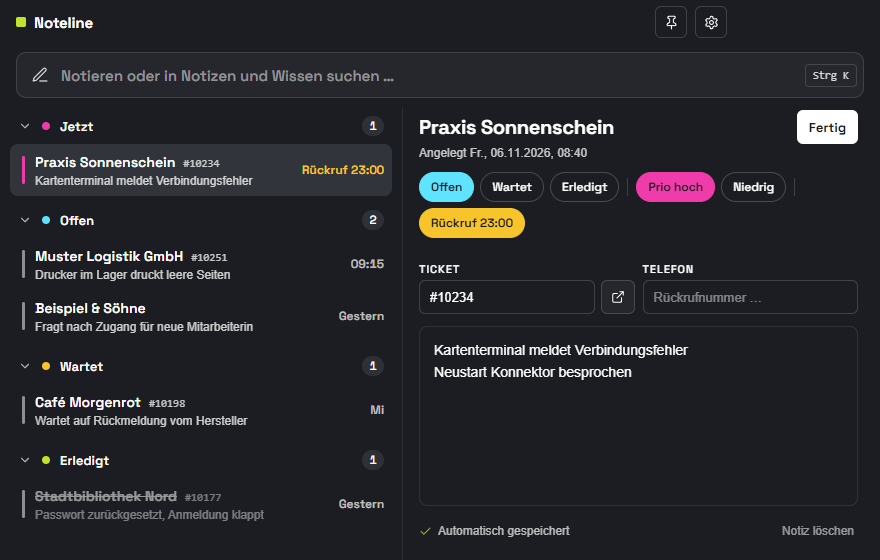
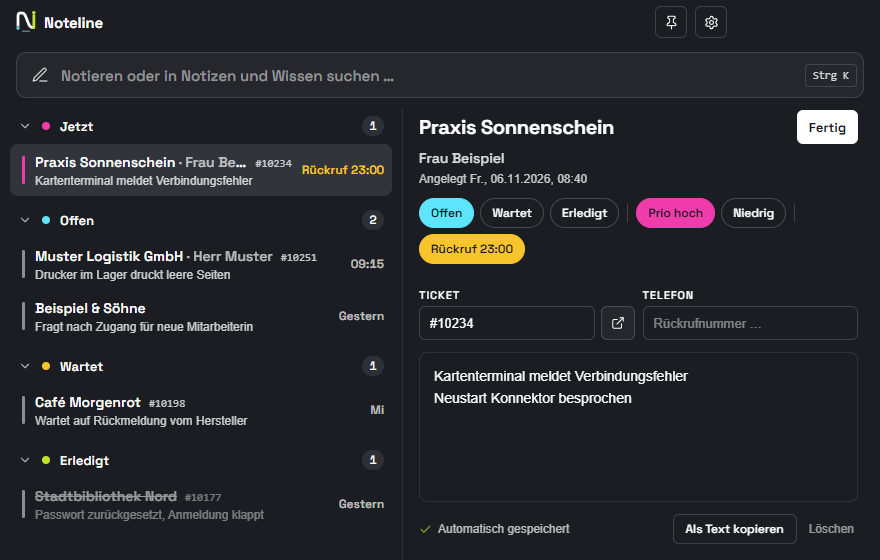
docs: README, Screenshots und Changelog für 1.2.0

diff --git a/scripts/screenshot.js b/scripts/screenshot.js
@@ -11,28 +11,31 @@ const electron = require('electron');
 const h = (stunden, minuten = 0) => { const d = new Date(); d.setHours(stunden, minuten, 0, 0); return d.toISOString(); };
 const tag = (delta, stunden) => { const d = new Date(); d.setDate(d.getDate() + delta); d.setHours(stunden, 0, 0, 0); return d.toISOString(); };
 const n = (id, kunde, ticket, text, extra = {}) => ({
-  id, kunde, ticket, telefon: '', text, status: 'offen', prio: 'normal', rueckruf: null, erinnertFuer: null,
+  id, kunde, ansprechpartner: '', ticket, telefon: '', text, status: 'offen', prio: 'normal', rueckruf: null, erinnertFuer: null,
   erstellt: extra.erstellt || h(9), geaendert: extra.geaendert || extra.erstellt || h(9), ...extra,
 });
 
 const demo = {
   version: 2,
   notizen: [
-    n('d1', 'Praxis Sonnenschein', '#10234', 'Kartenterminal meldet Verbindungsfehler\nNeustart Konnektor besprochen', { prio: 'hoch', erstellt: h(8, 40), rueckruf: h(23, 0), erinnertFuer: h(23, 0) }),
-    n('d2', 'Muster Logistik GmbH', '#10251', 'Drucker im Lager druckt leere Seiten\nTreiber neu installiert, Testseite ok\nKunde meldet sich, falls es wieder auftritt', { erstellt: h(9, 15), telefon: '+49 123 4567890' }),
+    n('d1', 'Praxis Sonnenschein', '#10234', 'Kartenterminal meldet Verbindungsfehler\nNeustart Konnektor besprochen', { ansprechpartner: 'Frau Beispiel', prio: 'hoch', erstellt: h(8, 40), rueckruf: h(23, 0), erinnertFuer: h(23, 0) }),
+    n('d2', 'Muster Logistik GmbH', '#10251', 'Drucker im Lager druckt leere Seiten\nTreiber neu installiert, Testseite ok\nKunde meldet sich, falls es wieder auftritt', { erstellt: h(9, 15), telefon: '+49 123 4567890', ansprechpartner: 'Herr Muster' }),
     n('d3', 'Beispiel & Söhne', '', 'Fragt nach Zugang für neue Mitarbeiterin', { erstellt: tag(-1, 14) }),
     n('d4', 'Café Morgenrot', '#10198', 'Wartet auf Rückmeldung vom Hersteller', { status: 'wartet', erstellt: tag(-2, 11) }),
     n('d5', 'Stadtbibliothek Nord', '#10177', 'Passwort zurückgesetzt, Anmeldung klappt', { status: 'erledigt', erstellt: tag(-1, 10) }),
   ],
   wissen: [
-    { id: 'w1', gruppe: 'Befehle', titel: 'Erreichbarkeit prüfen', wert: 'ping <IP> -n 4' },
-    { id: 'w2', gruppe: 'Ports', titel: 'Fernwartung', wert: '5938' },
-    { id: 'w3', gruppe: 'Ports', titel: 'Webserver intern', wert: '8443' },
-    { id: 'w4', gruppe: 'Netz', titel: 'Testserver', wert: '192.0.2.10' },
-    { id: 'w5', gruppe: 'Netz', titel: 'DNS', wert: '198.51.100.53' },
-    { id: 'w6', gruppe: 'Links', titel: 'Herstellerportal', wert: 'https://example.org/support' },
+    { id: 'w1', titel: 'Support-Hotline', wert: '0800 1234567', favorit: true },
+    { id: 'w2', titel: 'Support-E-Mail', wert: 'support@example.org', favorit: true },
+    { id: 'w3', titel: 'Software-Download', wert: 'https://example.org/download' },
+    { id: 'w4', titel: 'Firmware Kartenterminal', wert: 'https://example.org/firmware' },
+    { id: 'w5', titel: 'Fachdienst A', wert: '192.0.2.10' },
+    { id: 'w6', titel: 'Fachdienst B', wert: '198.51.100.20' },
+    { id: 'w7', titel: 'Fernwartung', wert: '5938' },
+    { id: 'w8', titel: 'Webserver intern', wert: '8443' },
+    { id: 'w9', titel: 'Route Fachdienst', wert: 'route add <IP> mask 255.255.255.255 <GATEWAY>' },
   ],
-  ui: { closed: { erledigt: false }, platzhalter: { w1: { IP: '192.0.2.10' } } },
+  ui: { closed: { erledigt: false }, platzhalter: { w9: { IP: '192.0.2.10', GATEWAY: '192.0.2.1' } } },
 };
 
 const ziel = path.join(__dirname, '..', 'docs');

diff --git a/README.md b/README.md
@@ -1,6 +1,6 @@
 <div align="center">
 
-<img src="build/icon.png" width="88" alt="">
+<img src="brand/noteline-app-icon.svg" width="96" alt="">
 
 # Noteline
 
@@ -42,18 +42,27 @@ Was sich geändert hat, steht im [Changelog](CHANGELOG.md) und bei jedem [Releas
 ## Funktionen
 
 ### Hotline
-- **Sofort mitschreiben:** Tippen und Enter drücken. `Kunde: Stichpunkt` füllt den Kunden gleich mit aus,
+- **Sofort mitschreiben:** Tippen und Enter drücken. `Kunde / Ansprechpartner: Stichpunkt` füllt beide Felder gleich mit aus,
   Telefonnummern und `#Ticketnummern` landen automatisch in ihren Feldern.
 - **Ticket mit einem Klick öffnen:** Einmal die Ticket-Adresse eures Systems hinterlegen, dann wird jede
   Ticketnummer zum Link.
 - **Spuren statt Textwüste:** *Jetzt*, *Offen*, *Wartet*, *Erledigt*, mit Priorität und Ticketnummer.
-- **Rückruf-Erinnerung:** Windows-Benachrichtigung zum fälligen Zeitpunkt, die stehen bleibt, bis du sie
+- **Ansprechpartner** je Notiz: mit wem telefoniert wurde bzw. wer beim Kunden zuständig ist.
+- **Als Text kopieren:** Die ganze Notiz mit einem Klick fertig zum Einfügen ins Ticketsystem.
+- **Löschen mit Rückgängig:** kein Nachfragen, dafür 6 Sekunden zum Zurückholen.
+- **Rückruf-Erinnerung:** Datum steht schon auf heute, nur die Uhrzeit eintragen. Zum Zeitpunkt kommt eine
+  Windows-Benachrichtigung, die stehen bleibt, bis du sie
   wegklickst. Ein Klick öffnet die Notiz.
 - **Suche** über Kunde, Ticket, Telefon und Text.
 
 ### Wissen
-- Ports, IPs, Links und Befehle nach Gruppen. **Ein Klick kopiert** den Wert.
-- **Vorlagen:** Ein Wert wie `ping <IP> -n 4` bekommt ein Eingabefeld und liefert den fertigen Befehl.
+- **Eine Zeile reicht:** `Support-Hotline 0800 1234567` oder `Download https://…` eintippen, Enter. Noteline erkennt
+  Telefonnummer, E-Mail, Link, IP-Adresse, Port oder Befehl und sortiert den Eintrag selbst ein, ohne Gruppen.
+- **Ein Klick kopiert** den Wert. Links lassen sich öffnen, E-Mail-Adressen direkt anschreiben.
+- **Favoriten** mit dem Stern stehen ganz oben und sind mit **Alt+1 bis Alt+9** ohne Suchen kopierbar.
+- **Strg+Enter** in der Suche kopiert den besten Treffer.
+- **Vorlagen:** Ein Wert wie `route add <IP> mask 255.255.255.255 <GATEWAY>` bekommt Eingabefelder und liefert
+  den fertigen Befehl.
 
 ### Bedienung
 - **Passt sich dem Fenster an:** schmal und hoch mit Reitern, breit und niedrig mit zwei Spalten
@@ -75,6 +84,8 @@ Was sich geändert hat, steht im [Changelog](CHANGELOG.md) und bei jedem [Releas
 |---|---|
 | <kbd>Strg</kbd>+<kbd>K</kbd> | Suchen / notieren |
 | <kbd>Strg</kbd>+<kbd>N</kbd> | Neue Notiz |
+| <kbd>Strg</kbd>+<kbd>Enter</kbd> | Besten Wissens-Treffer der Suche kopieren |
+| <kbd>Alt</kbd>+<kbd>1</kbd> … <kbd>9</kbd> | Favoriten kopieren |
 | <kbd>Strg</kbd>+<kbd>1</kbd> / <kbd>2</kbd> | Hotline / Wissen |
 | <kbd>Strg</kbd>+<kbd>Alt</kbd>+<kbd>H</kbd> | Noteline aus jeder Anwendung nach vorne holen |
 | <kbd>Esc</kbd> | Schließen / Suche leeren |

diff --git a/CHANGELOG.md b/CHANGELOG.md
@@ -3,6 +3,29 @@
 Alle nennenswerten Änderungen an Noteline. Format nach [Keep a Changelog](https://keepachangelog.com/de/1.1.0/),
 Versionierung nach [Semantic Versioning](https://semver.org/lang/de/).
 
+## [1.2.0] – 2026-11-06
+
+### Neu
+- **Neues Logo „One Flow"** für Installer, Programm, Taskleiste, Infobereich und Titelleiste. Das Logo in der
+  Titelleiste passt sich dem hellen und dunklen Erscheinungsbild an.
+- **Feld Ansprechpartner** in jeder Notiz, direkt unter dem Kunden. Es erscheint in der Liste
+  („Kunde · Ansprechpartner"), in der Rückruf-Benachrichtigung und wird durchsucht.
+  Schnellerfassung: `Kunde / Ansprechpartner: Stichpunkt`.
+- **Wissen komplett überarbeitet:** Ein Eintrag braucht nur noch eine Zeile, z. B. `Support-Hotline 0800 1234567`.
+  Noteline erkennt Telefonnummer, E-Mail, Link, IP-Adresse, Port oder Befehl und sortiert selbst ein. Gruppen
+  muss niemand mehr eintippen. Bestehende Einträge werden automatisch übernommen.
+- **Favoriten** mit Stern stehen ganz oben und lassen sich mit **Alt+1 bis Alt+9** sofort kopieren.
+- **Strg+Enter** in der Suche kopiert den besten Wissens-Treffer.
+- Links lassen sich öffnen, E-Mail-Adressen direkt anschreiben. Platzhalter in Links werden URL-sicher eingesetzt.
+- **Notiz als Text kopieren**, fertig zum Einfügen ins Ticketsystem.
+
+### Verbessert
+- **Löschen mit Rückgängig** statt Nachfragen: Notizen und Wissens-Einträge verschwinden sofort und lassen sich
+  6 Sekunden lang zurückholen.
+- Kopieren funktioniert jetzt auch, wenn das Noteline-Fenster gerade keinen Fokus hat.
+- **Rückruf schneller setzen:** getrennte Felder für Datum und Uhrzeit. Das Datum steht schon auf heute, es
+  reicht, die Uhrzeit einzutragen.
+
 ## [1.1.0] – 2026-11-06
 
 Angepasst an die Arbeit neben Ticketsystem und Telefonie: breites, niedriges Fenster, schnelleres Erfassen,
@@ -56,6 +79,7 @@ Erste veröffentlichte Version. Neuaufbau des Prototyps „Hotline-Notizen“ na
 - Eine ins Fenster gezogene Datei ersetzt nicht mehr die App-Oberfläche.
 - Strengere Sicherheitseinstellungen (Sandbox, Content-Security-Policy ohne Inline-Skripte).
 
+[1.2.0]: https://github.com/pascatotalx/noteline/releases/tag/v1.2.0
 [1.1.0]: https://github.com/pascatotalx/noteline/releases/tag/v1.1.0
 [1.0.1]: https://github.com/pascatotalx/noteline/releases/tag/v1.0.1
 [1.0.0]: https://github.com/pascatotalx/noteline/releases/tag/v1.0.0
